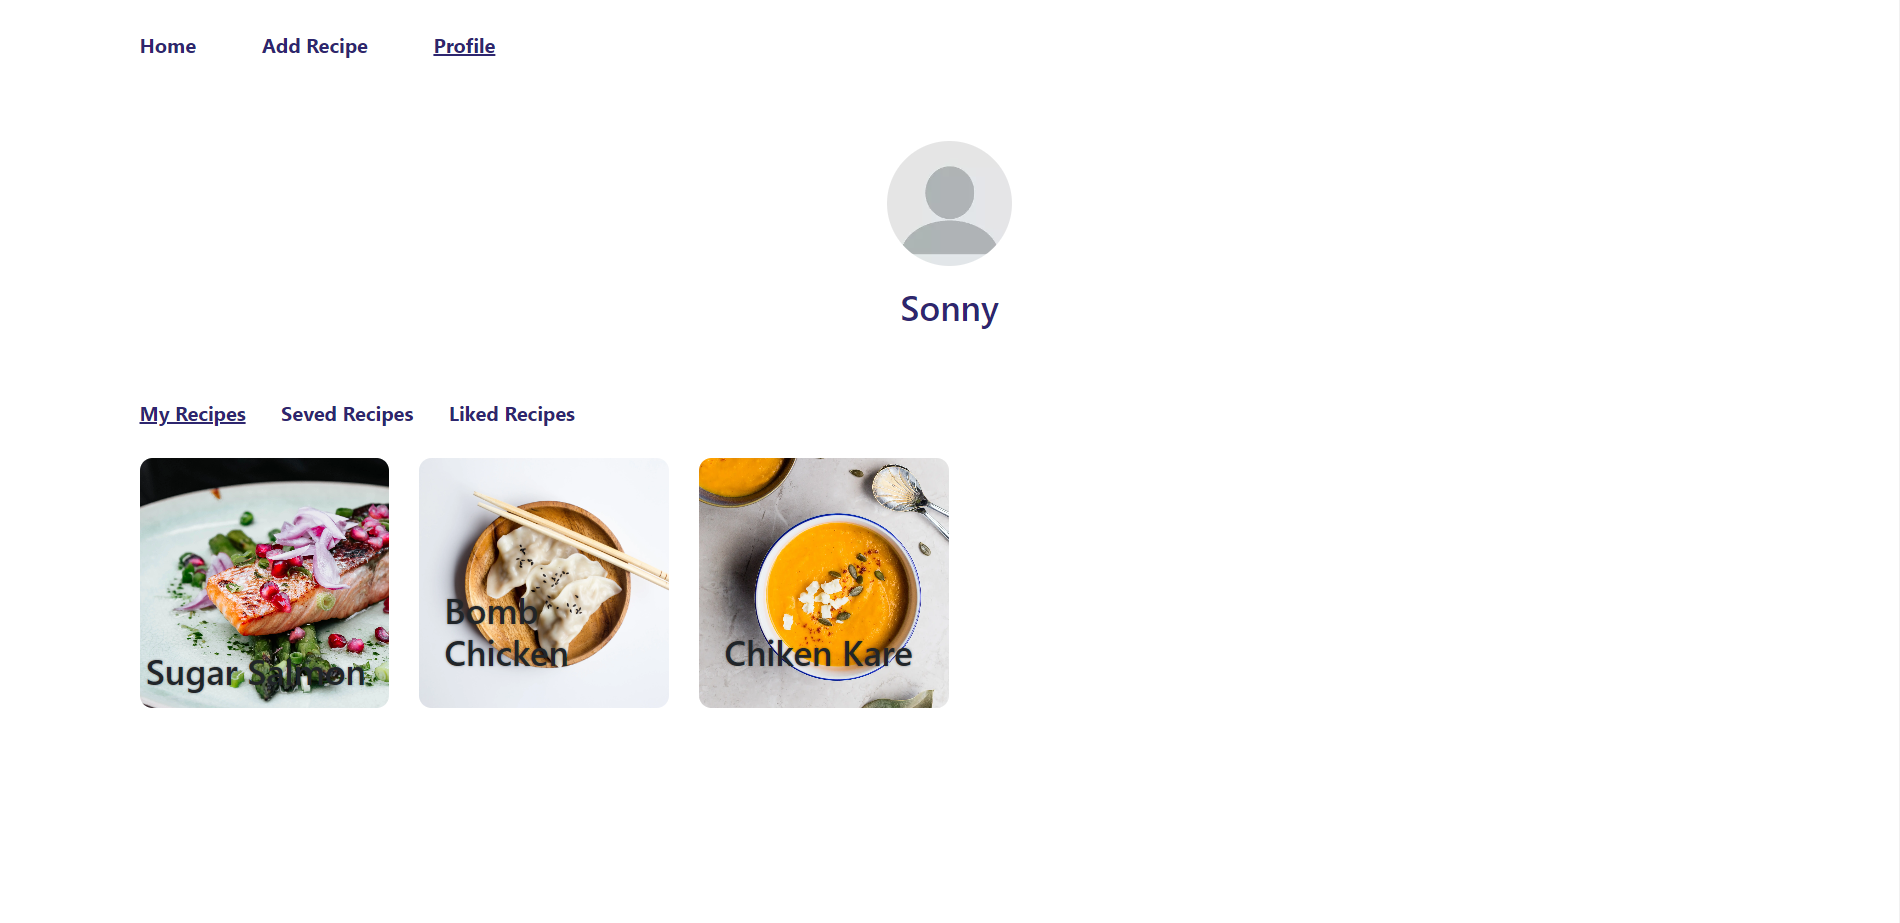
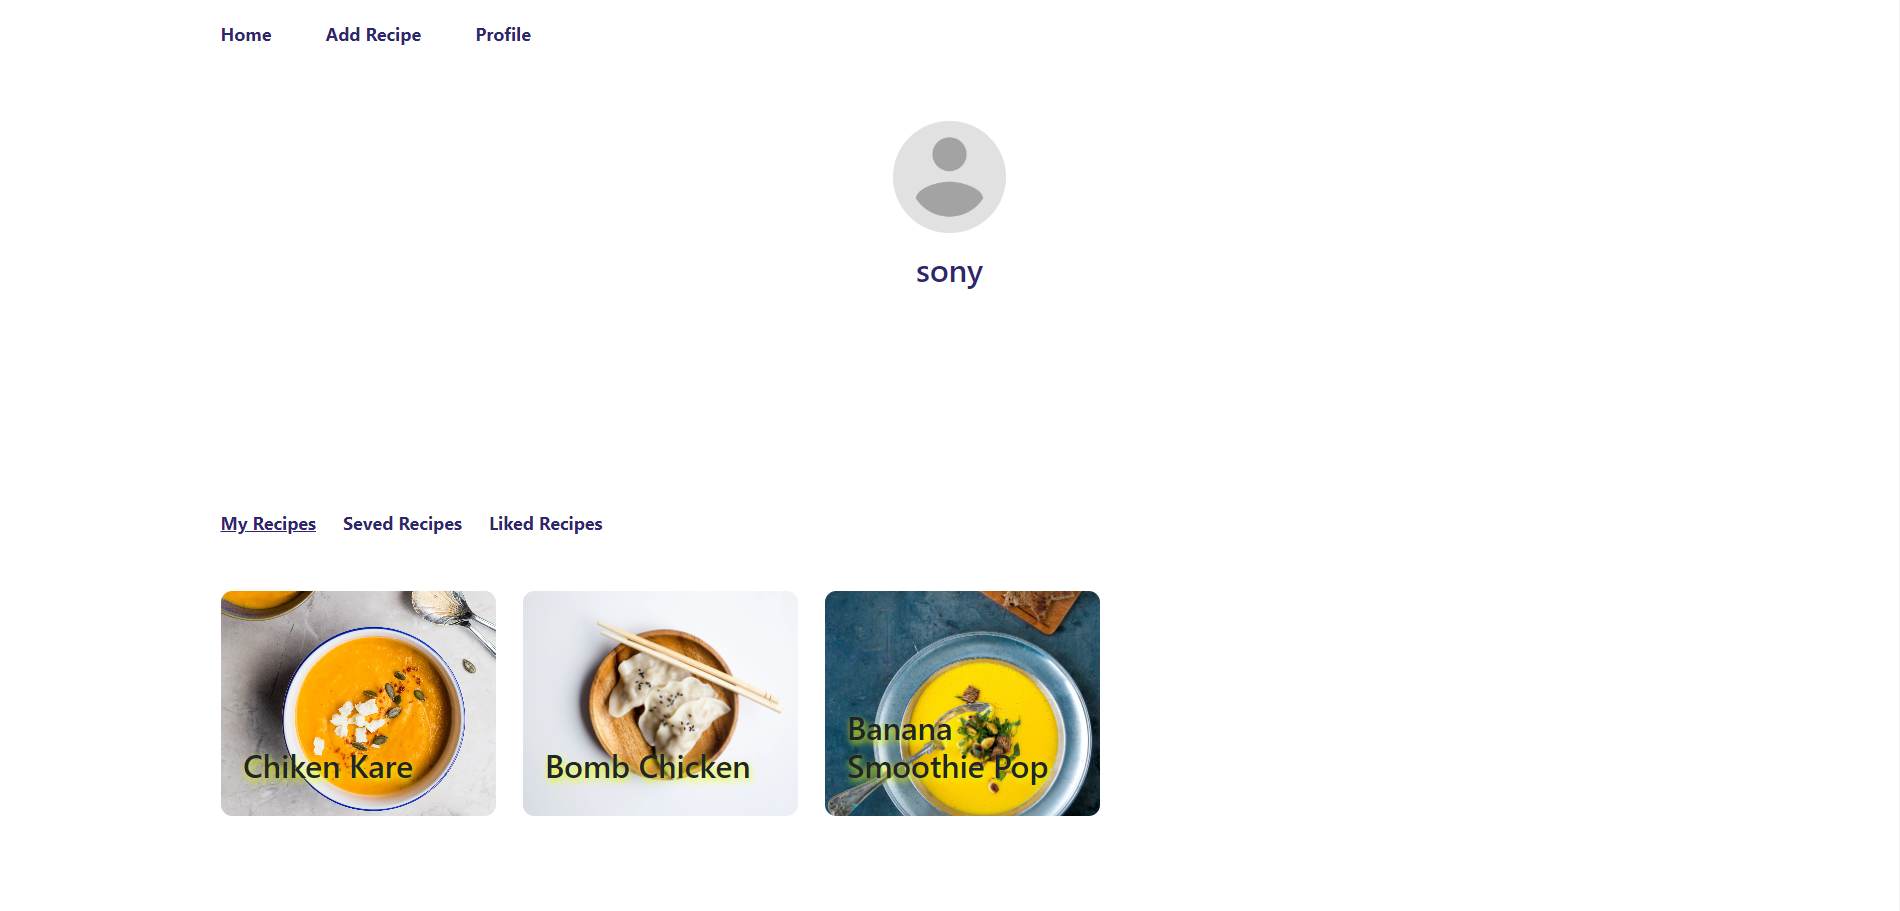
[UPDATE] gambar readme

diff --git a/src/pages/Detail.jsx b/src/pages/Detail.jsx
@@ -14,29 +14,16 @@ function Detail() {
   const location = useLocation();
   const [currentRecipe, setCurrentRecipe] = React.useState(null);
   const id = location?.search?.split("?id=")[1];
-  console.log(id)
-  // const title = console.log(location);
-
-  // hendle scrol to top
-  React.useEffect(() => {
-     
-  }, []);
 
   React.useEffect(() => {
     window.scrollTo(0, 0);
     axios
-    .get(`${process.env.REACT_APP_BASE_URL}/recipes/`)
-    .then((response) => 
-    // setCurrentRecipe(response?.data?.data[0])
-    console.log(response?.data?.data[0])
-
-      // setCurrentRecipe(response?.data?.data[location?.search?.split("?id=")[1]])
+      .get(`${process.env.REACT_APP_BASE_URL}/recipes/${id}`)
+      .then((response) => 
+    setCurrentRecipe(response?.data?.data[0])
     )
-      .catch((error) => {
-        console.log(error)
-      })
   }, []);
- 
+ console.log(currentRecipe)
   return (
     <div>
       {/* <!-- start of header --> */}
@@ -63,9 +50,9 @@ function Detail() {
       <section id="content">
         <h1 className="text-center text-primary">{currentRecipe?.title}</h1>
 
-        <div className="d-flex justify-content-center">
-          <img src={currentRecipe?.recipePicture} className="main-image" />
-        </div>
+          <div className="d-flex justify-content-center">
+            <img src={currentRecipe?.recipePicture} className="main-image" />
+          </div>
 
         <div className="row mt-5">
           <div className="col offset-md-2">

diff --git a/src/pages/AddRecipes.jsx b/src/pages/AddRecipes.jsx
@@ -6,10 +6,15 @@ import NavbarPhone from "../components/NavbarPhone";
 import React from "react";
 import axios from "axios";
 import Swal from "sweetalert2";
-
 import { useNavigate } from "react-router-dom";
+
 function AddRecipes() {
   const navigate = useNavigate();
+React.useEffect(()=>{
+  if(!localStorage.getItem('auth')){
+    navigate('./login')
+  }
+},[])
   
  const [recipePicture, setRecipePicture] = React.useState(null)
  const [title, setTitle] = React.useState(null)
@@ -31,6 +36,7 @@ function AddRecipes() {
           icon: "success",
         });
         navigate("/home")
+        
       })
       .catch((error) => {
         Swal.fire({

diff --git a/src/pages/Profile.jsx b/src/pages/Profile.jsx
@@ -22,8 +22,6 @@ function Profile() {
   React.useEffect(() => {
     if(!localStorage.getItem('auth')){
       navigate('/login')
-    }else{
-
     }
   }, [] )
 
@@ -37,8 +35,8 @@ function Profile() {
 
   React.useEffect(()=>{
       axios.get(`${process.env.REACT_APP_BASE_URL}/recipes/users/me`).then((result) => {
-        // setRecipeList(result?.data?.data[0]);
-        console.log(result);
+        setRecipeList(result?.data?.data);
+        console.log(result?.data?.data);
 
       });
   },[])

diff --git a/src/components/RecipesCard.jsx b/src/components/RecipesCard.jsx
@@ -15,5 +15,5 @@ function RecipesCard(props) {
       </>
     );
 }
-
+ 
 export default RecipesCard
